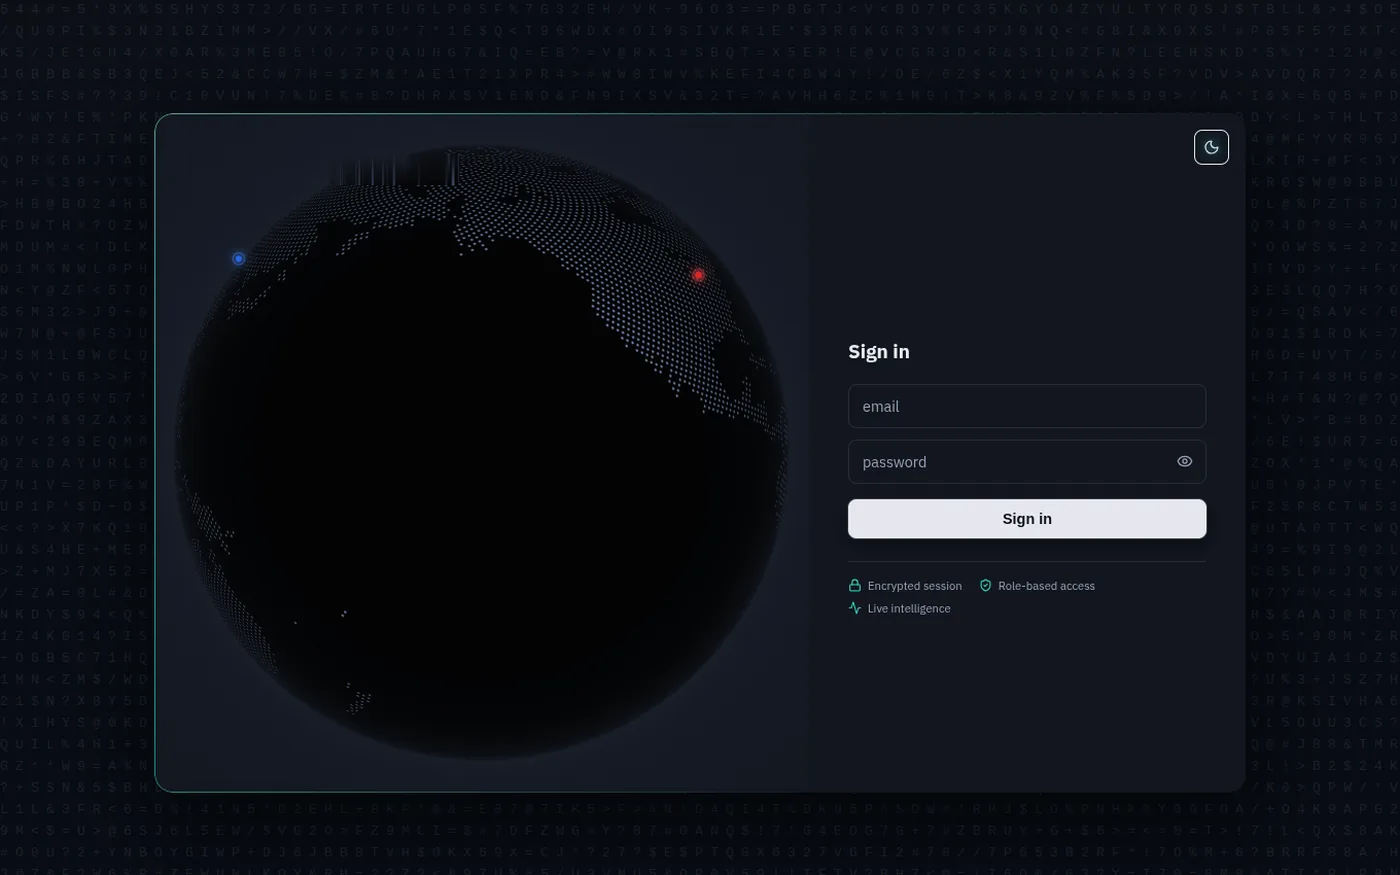
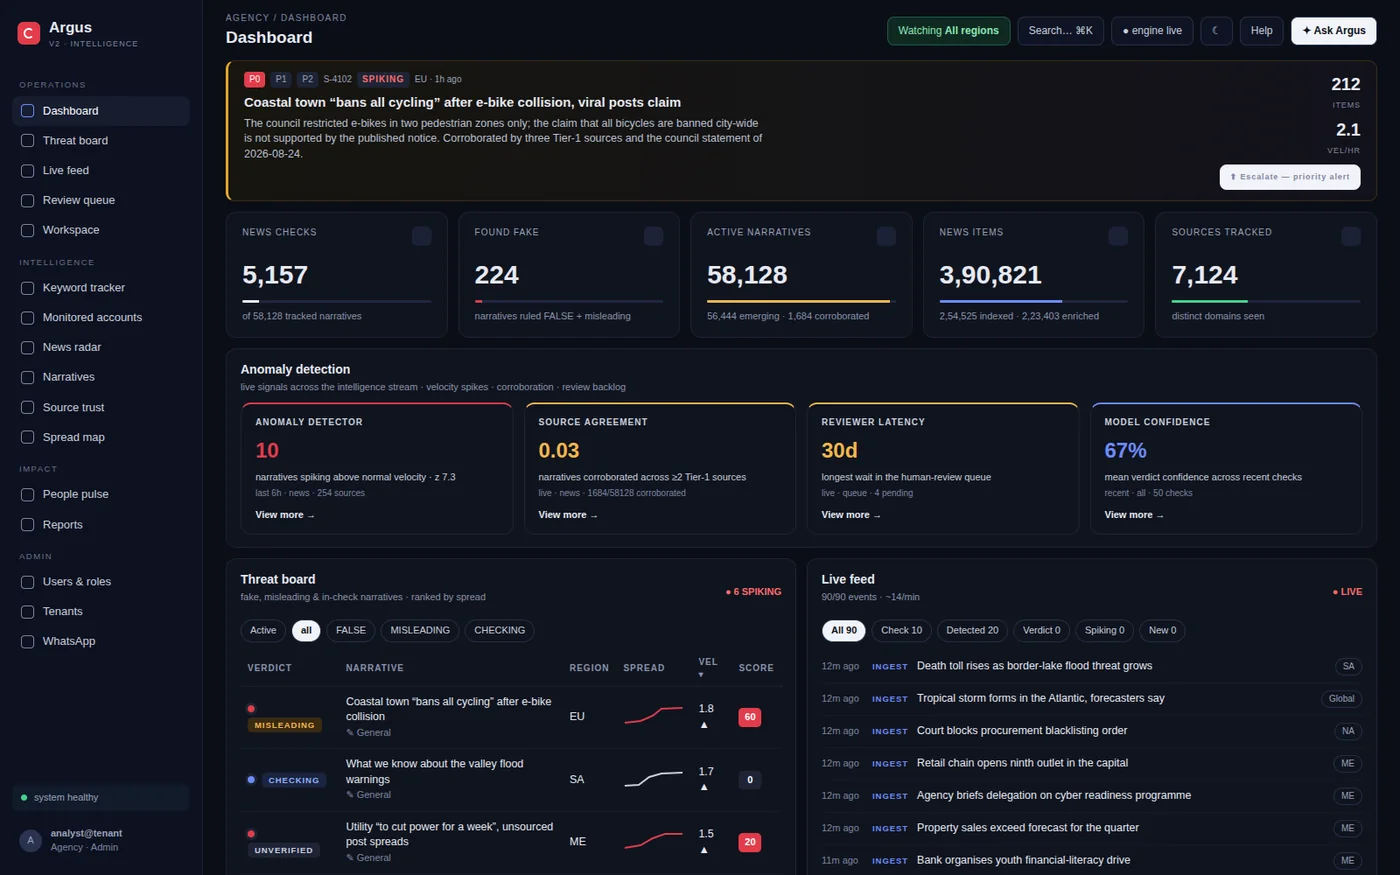
Work: Argus thumbnail as a look-alike dashboard mock (no real brand/links); sharper description

diff --git a/src/content.js b/src/content.js
@@ -112,8 +112,8 @@ export const projects = [
     id: 19,
     img: WorkArgus,
     title: 'Argus',
-    desc: 'Brand & media intelligence console — keyword watchlists, social spike detection, a geo common-operating-picture map, anomaly alerts, AI-written briefs and multi-tenant role-based access. Client project, so no public link.',
-    stack: ['React', 'MapLibre', 'FastAPI', 'Python'],
+    desc: 'Narrative & misinformation intelligence console — news-check verdicts, a threat board ranked by spread, anomaly detection, live ingest feed, spread map, keyword and account monitoring, AI briefs and multi-tenant RBAC. Client project, so no public link.',
+    stack: ['React', 'FastAPI', 'Python', 'MapLibre', 'WhatsApp API'],
     link: null,
     featured: true,
   },
